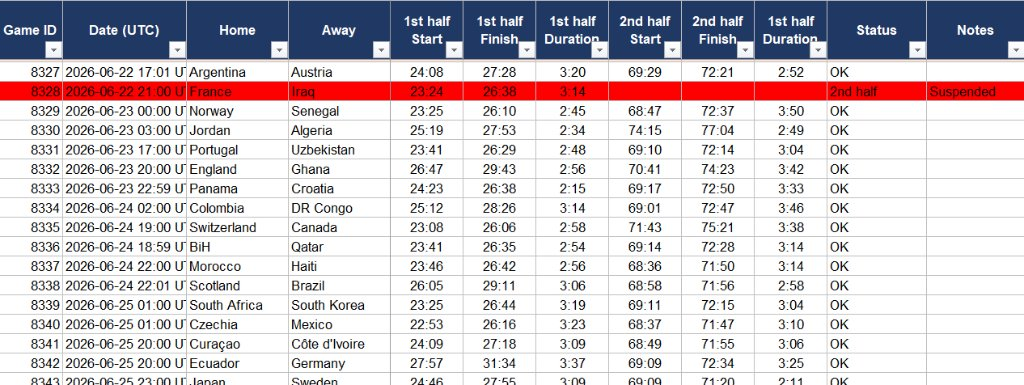
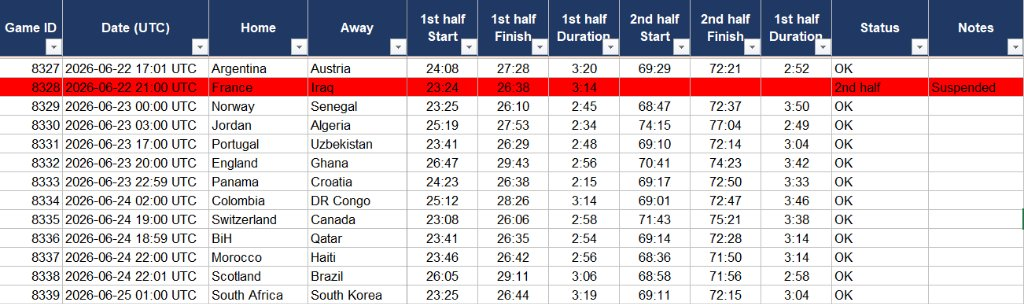
Update hydration breaks sample table image with complete UTC timestamps

diff --git a/fifa_2026_hydration.html b/fifa_2026_hydration.html
@@ -145,7 +145,7 @@
           </ul>
 
           <div class="article-img-box">
-            <img src="images/fifa_2026_hydration_breaks_table.jpg" alt="Sample dataset of FIFA 2026 matches with identified hydration break intervals and duration" style="max-width: 100%; width: 100%;" />
+            <img src="images/fifa_2026_hydration_breaks_table.jpg?v=2" alt="Sample dataset of FIFA 2026 matches with identified hydration break intervals and duration" style="max-width: 100%; width: 100%;" />
             <p style="margin-top: 0.75rem; font-size: 0.875rem; color: var(--text-muted); font-style: italic;">
               Sample of the analyzed matches with identified hydration break start, end, and duration timestamps.
             </p>
